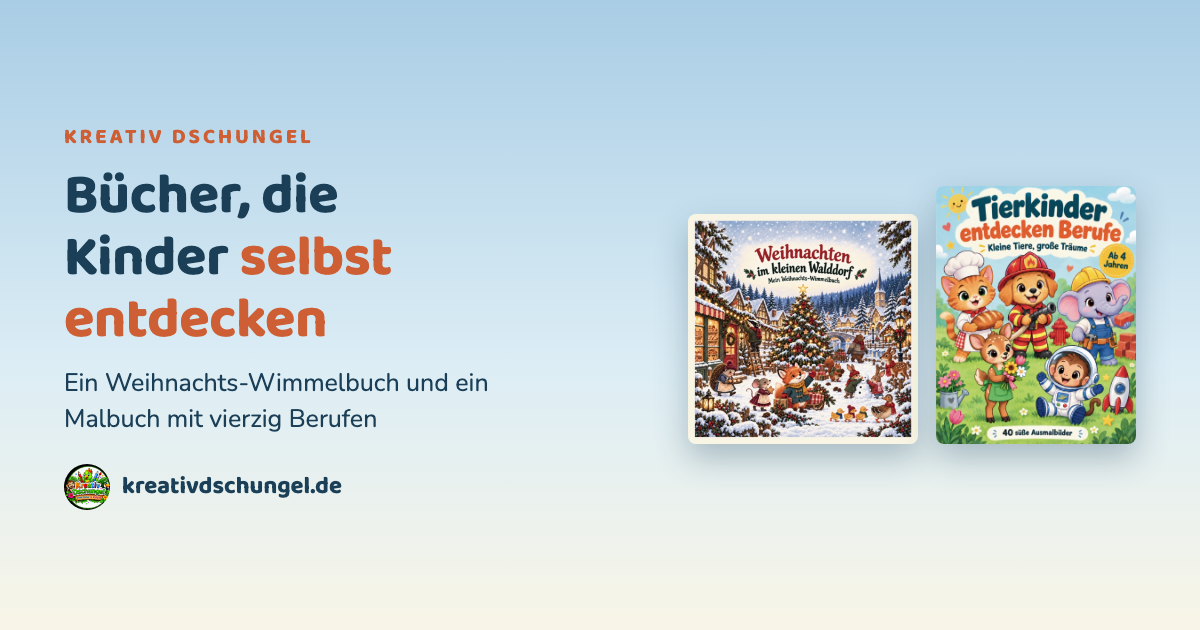
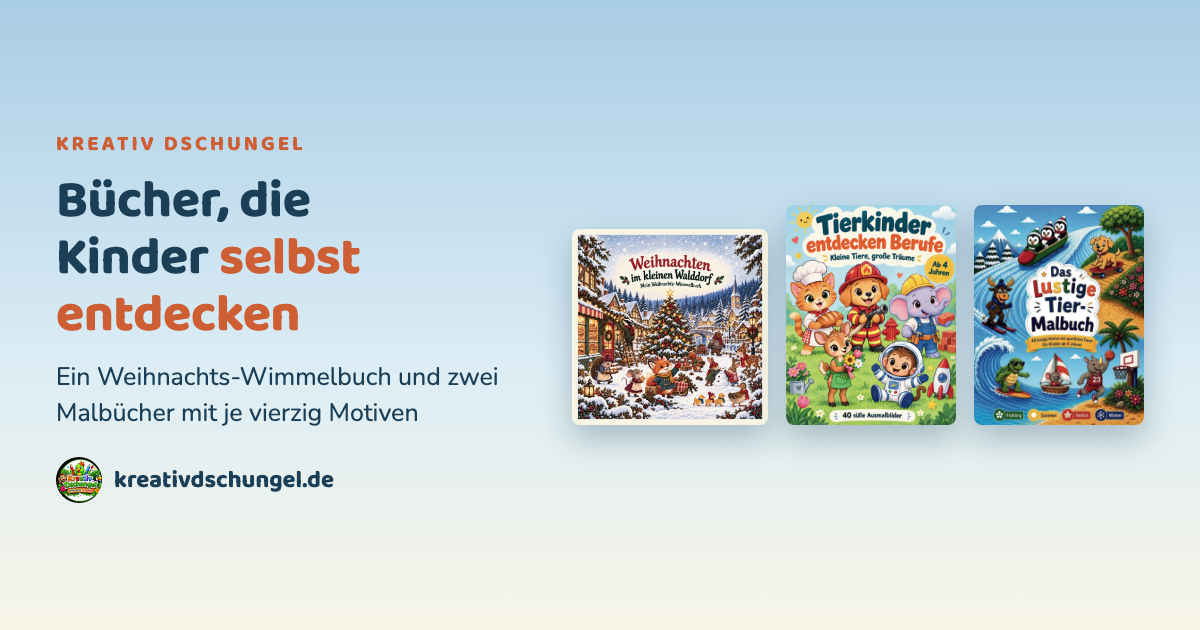
Drittes Buch aufnehmen: Das lustige Tier-Malbuch
"Das lustige Tier-Malbuch" (ASIN B0H2L4VM4R), 40 Motive von sportlichen Tieren
durch die vier Jahreszeiten, ab 4 Jahren. Eigener Abschnitt mit Grasgrün als
Akzent, aus dem Cover abgeleitet.

Angaben stammen von der Rückseite der Coverdatei: vier Jahreszeiten, große
Ausmalflächen, jedes Motiv auf eigenem Blatt mit leerer Rückseite.

Für dieses Buch lag nur das Cover vor, deshalb fehlt der "Blick ins Buch" —
im Quelltext als offener Punkt markiert.

Vorschaubild zeigt jetzt alle drei Cover.

diff --git a/index.html b/index.html
@@ -4,20 +4,20 @@
 <meta charset="utf-8">
 <meta name="viewport" content="width=device-width, initial-scale=1, viewport-fit=cover">
 
-<title>Kreativ Dschungel — Wimmelbuch und Malbuch für Kinder</title>
-<meta name="description" content="Zwei Bücher von Sebastian Mentzel: ein Weihnachts-Wimmelbuch mit acht Suchbildern aus dem kleinen Walddorf und ein Malbuch mit 40 Ausmalbildern zum Thema Berufe. Blick ins Buch online.">
+<title>Kreativ Dschungel — Wimmelbuch und Malbücher für Kinder</title>
+<meta name="description" content="Drei Bücher von Sebastian Mentzel: ein Weihnachts-Wimmelbuch mit acht Suchbildern und zwei Malbücher mit je 40 Motiven — Berufe und sportliche Tiere. Für Kinder ab 4 Jahren.">
 <link rel="canonical" href="https://kreativdschungel.de/">
 
 <meta property="og:type" content="website">
 <meta property="og:locale" content="de_DE">
 <meta property="og:site_name" content="Kreativ Dschungel">
-<meta property="og:title" content="Kreativ Dschungel — Wimmelbuch und Malbuch für Kinder">
-<meta property="og:description" content="Ein Weihnachts-Wimmelbuch aus dem kleinen Walddorf und ein Malbuch mit 40 Berufen. Mit Blick ins Buch.">
+<meta property="og:title" content="Kreativ Dschungel — Wimmelbuch und Malbücher für Kinder">
+<meta property="og:description" content="Ein Weihnachts-Wimmelbuch und zwei Malbücher mit je 40 Motiven. Für Kinder ab 4 Jahren.">
 <meta property="og:url" content="https://kreativdschungel.de/">
 <meta property="og:image" content="https://kreativdschungel.de/vorschaubild.png">
 <meta property="og:image:width" content="1200">
 <meta property="og:image:height" content="630">
-<meta property="og:image:alt" content="Die Cover beider Bücher: Weihnachten im kleinen Walddorf und Tierkinder entdecken Berufe">
+<meta property="og:image:alt" content="Die Cover der drei Bücher: Weihnachten im kleinen Walddorf, Tierkinder entdecken Berufe und Das lustige Tier-Malbuch">
 <meta name="twitter:card" content="summary_large_image">
 
 <!-- Pinterest: Code aus Einstellungen → Beanspruchte Konten → Website beanspruchen -->
@@ -41,6 +41,7 @@
   --orange:#CE5F35; --himmel:#A9CDE5; --himmel-hell:#DCEDF5;
   --wiese:#AEC865; --gelb:#E8C457;
   --tanne:#1E3D28; --tanne-hell:#E3EBE1; --rot:#8C2828; --gold:#C9A227;
+  --sport:#5E8A2E; --sport-hell:#EDF3DF;
   --linie:#E4DECA; --schatten:rgba(26,63,87,.13);
 
   --titel:"Baloo 2","Trebuchet MS",system-ui,sans-serif;
@@ -54,6 +55,7 @@
     --orange:#F08A5D; --himmel:#2C5468; --himmel-hell:#1B3A4B;
     --wiese:#8FB255; --gelb:#F0CF6B;
     --tanne:#8FC3A1; --tanne-hell:#17333A; --rot:#E08A80; --gold:#E3C76B;
+    --sport:#A8C96E; --sport-hell:#16303A;
     --linie:#2C5468; --schatten:rgba(0,0,0,.45);
     color-scheme:dark;
   }
@@ -63,6 +65,7 @@
   --orange:#F08A5D; --himmel:#2C5468; --himmel-hell:#1B3A4B;
   --wiese:#8FB255; --gelb:#F0CF6B;
   --tanne:#8FC3A1; --tanne-hell:#17333A; --rot:#E08A80; --gold:#E3C76B;
+  --sport:#A8C96E; --sport-hell:#16303A;
   --linie:#2C5468; --schatten:rgba(0,0,0,.45);
   color-scheme:dark;
 }
@@ -121,6 +124,9 @@ nav.haupt a:hover,nav.haupt a.aktiv{color:var(--tief); background:var(--himmel-h
 .knopf.gruen{background:var(--rot); box-shadow:0 4px 0 #5E1A1A, 0 8px 18px var(--schatten); color:#fff}
 .knopf.gruen:hover{box-shadow:0 6px 0 #5E1A1A, 0 12px 22px var(--schatten)}
 .knopf.gruen:active{box-shadow:0 2px 0 #5E1A1A}
+.knopf.gras{background:var(--sport); box-shadow:0 4px 0 #3D5C1C, 0 8px 18px var(--schatten); color:#fff}
+.knopf.gras:hover{box-shadow:0 6px 0 #3D5C1C, 0 12px 22px var(--schatten)}
+.knopf.gras:active{box-shadow:0 2px 0 #3D5C1C}
 .knopf.zweit{background:var(--papier); color:var(--tief);
              box-shadow:0 4px 0 var(--linie), 0 8px 18px var(--schatten)}
 .knopf.zweit:hover{box-shadow:0 6px 0 var(--linie), 0 12px 22px var(--schatten)}
@@ -144,18 +150,20 @@ a:focus-visible,button:focus-visible,summary:focus-visible{outline:3px solid var
 .hero h1 .ton{color:var(--orange)}
 .hero p.lead{margin-top:16px; color:var(--tief); opacity:.88}
 .tasten{display:flex; flex-wrap:wrap; gap:12px; margin-top:26px}
-.zweibuch{display:grid; grid-template-columns:1fr 1fr; gap:18px; align-items:end}
+.zweibuch{display:grid; grid-template-columns:repeat(3,1fr); gap:12px; align-items:end}
 .zweibuch a{text-decoration:none; display:block}
 .zweibuch img{border-radius:8px; box-shadow:0 16px 34px rgba(26,63,87,.3); width:100%}
-.zweibuch a:nth-child(1) img{transform:rotate(-2.5deg)}
-.zweibuch a:nth-child(2) img{transform:rotate(2deg)}
-.zweibuch span{display:block; font-family:var(--titel); font-weight:600; font-size:.84rem;
+.zweibuch a:nth-child(1) img{transform:rotate(-3deg)}
+.zweibuch a:nth-child(2) img{transform:translateY(-10px) rotate(1deg)}
+.zweibuch a:nth-child(3) img{transform:rotate(3.5deg)}
+.zweibuch span{display:block; font-family:var(--titel); font-weight:600; font-size:.76rem;
                text-align:center; margin-top:14px; color:var(--tief)}
 @media (max-width:820px){ .hero-raster{grid-template-columns:1fr} }
 
 /* ---------- Buchkapitel ---------- */
 .buch{padding-block:clamp(54px,8vw,92px)}
 .buch.walddorf{background:var(--tanne-hell)}
+.buch.sport{background:var(--sport-hell)}
 .buch-kopf{display:grid; grid-template-columns:.78fr 1.22fr; gap:clamp(26px,4vw,52px); align-items:center}
 .buch-kopf img.cover{border-radius:8px; box-shadow:0 16px 36px rgba(26,63,87,.26)}
 .buch h2{font-size:clamp(1.8rem,4.2vw,2.7rem)}
@@ -243,7 +251,8 @@ footer.site{background:var(--himmel-hell); padding-block:46px 54px;
     </a>
     <nav class="haupt" aria-label="Hauptnavigation">
       <a href="#walddorf">Wimmelbuch</a>
-      <a href="#tierkinder">Malbuch</a>
+      <a href="#tierkinder">Berufe</a>
+      <a href="#tiermalbuch">Sport</a>
       <a href="#anlaesse">Für wen</a>
       <a href="#autor">Über mich</a>
       <a href="#fragen">Fragen</a>
@@ -259,22 +268,26 @@ footer.site{background:var(--himmel-hell); padding-block:46px 54px;
   <span class="wolke w1"></span><span class="wolke w2"></span>
   <div class="wrap hero-raster">
     <div>
-      <p class="kicker">Zwei Bücher für Kinder</p>
+      <p class="kicker">Drei Bücher für Kinder</p>
       <h1>Bücher, die Kinder <span class="ton">selbst entdecken</span></h1>
-      <p class="lead">Ein Weihnachts-Wimmelbuch zum Suchen und Erzählen und ein Malbuch mit vierzig Berufen zum Ausmalen. Beide von Sebastian Mentzel, beide bei Amazon erhältlich — und beide so gemacht, dass Kinder damit allein etwas anfangen können.</p>
+      <p class="lead">Ein Weihnachts-Wimmelbuch zum Suchen und Erzählen und zwei Malbücher mit je vierzig Motiven zum Ausmalen. Alle drei von Sebastian Mentzel, alle drei bei Amazon erhältlich — und alle so gemacht, dass Kinder damit allein etwas anfangen können.</p>
       <div class="tasten">
         <a class="knopf gruen" href="#walddorf">Das Wimmelbuch</a>
-        <a class="knopf" href="#tierkinder">Das Malbuch</a>
+        <a class="knopf" href="#tierkinder">Die Malbücher</a>
       </div>
     </div>
     <div class="zweibuch">
       <a href="#walddorf">
         <img src="bilder/cover-walddorf.jpg" width="760" height="760" alt="Cover: Weihnachten im kleinen Walddorf — verschneites Dorf mit Fuchs, Maus, Igel und geschmücktem Weihnachtsbaum">
-        <span>Wimmelbuch</span>
+        <span>Weihnachten</span>
       </a>
       <a href="#tierkinder">
         <img src="bilder/cover-tierkinder.jpg" width="900" height="1165" alt="Cover: Tierkinder entdecken Berufe — Katze als Bäckerin, Hund als Feuerwehrmann, Elefant als Bauarbeiter">
-        <span>Malbuch</span>
+        <span>Berufe</span>
+      </a>
+      <a href="#tiermalbuch">
+        <img src="bilder/cover-tiermalbuch.jpg" width="760" height="983" alt="Cover: Das lustige Tier-Malbuch — Pinguine im Bob, Elch auf Skiern, Schildkröte auf dem Surfbrett">
+        <span>Sport</span>
       </a>
     </div>
   </div>
@@ -384,11 +397,55 @@ footer.site{background:var(--himmel-hell); padding-block:46px 54px;
   </div>
 </section>
 
+<!-- ======================= SPORT-MALBUCH ======================= -->
+<section class="buch sport" id="tiermalbuch">
+  <div class="wrap">
+    <div class="buch-kopf">
+      <img class="cover" src="bilder/cover-tiermalbuch.jpg" width="760" height="983"
+           alt="Cover: Das lustige Tier-Malbuch, 40 Motive von sportlichen Tieren">
+      <div>
+        <p class="kicker" style="color:var(--sport)">Malbuch ab 4 Jahren</p>
+        <h2>Das lustige Tier-Malbuch</h2>
+        <p class="reihe">Sportlicher Malspaß für das ganze Jahr</p>
+        <p class="lead" style="margin-top:16px">Vierzig Tiere bei ihren verrückten Abenteuern durch Frühling, Sommer, Herbst und Winter. Die Giraffe beim Turmspringen, der Frosch beim Stabhochsprung, der Pinguin beim Bobfahren, die Maus beim Segeln — auf jeder Seite gibt es etwas zum Lachen und zum Ausmalen.</p>
+        <ul class="merkmale">
+          <li>40 Motive</li>
+          <li>Ab 4 Jahren</li>
+          <li>Vier Jahreszeiten</li>
+          <li>Einseitig bedruckt</li>
+        </ul>
+        <div class="tasten">
+          <a class="knopf gras" href="https://www.amazon.de/dp/B0H2L4VM4R" target="_blank" rel="noopener">Bei Amazon ansehen</a>
+        </div>
+      </div>
+    </div>
+
+    <div class="karten">
+      <div class="karte">
+        <h3>Vier Jahreszeiten</h3>
+        <p>Die Motive sind nach Frühling, Sommer, Herbst und Winter geordnet. Nebenbei lernt sich, was im Jahr wann passiert — ohne dass es nach Lernen aussieht.</p>
+      </div>
+      <div class="karte">
+        <h3>Sport als Aufhänger</h3>
+        <p>Jedes Tier macht etwas: Skifahren, Surfen, Basketball, Segeln. Das gibt beim Ausmalen mehr zu bereden als ein Tier, das nur dasteht.</p>
+      </div>
+      <div class="karte">
+        <h3>Kein Durchdrücken</h3>
+        <p>Jedes Motiv liegt auf einem eigenen Blatt mit leerer Rückseite. Große Ausmalflächen, passend für Kinder ab vier.</p>
+      </div>
+    </div>
+
+    <p style="margin-top:28px; font-size:.88rem">
+      <span class="fuell">[Innenseiten nachliefern, dann kommt hier ein „Blick ins Buch“ wie bei den anderen beiden Büchern. Für dieses Buch lag nur die Coverdatei vor.]</span>
+    </p>
+  </div>
+</section>
+
 <section id="anlaesse" style="background:var(--himmel-hell)">
   <div class="wrap">
     <p class="kicker">Für wen</p>
     <h2>Wann die Bücher gerade richtig sind</h2>
-    <p class="lead">Beide beschäftigen Kinder ohne Bildschirm und ohne Anleitung — das Wimmelbuch im Sitzen zu zweit, das Malbuch auch allein.</p>
+    <p class="lead">Alle drei beschäftigen Kinder ohne Bildschirm und ohne Anleitung — das Wimmelbuch im Sitzen zu zweit, die Malbücher auch allein.</p>
     <ul class="anlaesse">
       <li>Adventszeit</li>
       <li>Nikolausstiefel</li>
@@ -400,9 +457,10 @@ footer.site{background:var(--himmel-hell); padding-block:46px 54px;
       <li>Regennachmittag</li>
     </ul>
     <p style="margin-top:26px; max-width:62ch; color:var(--tief-weich)">
-      Beide Bücher bringen Gespräche in Gang. Beim Wimmelbuch über das, was auf den
-      Bildern passiert — beim Malbuch über die Frage, die auf der Rückseite steht:
-      Was möchtest du einmal werden?
+      Alle drei bringen Gespräche in Gang. Beim Wimmelbuch über das, was auf den
+      Bildern passiert, beim Berufe-Malbuch über die Frage von der Rückseite — was
+      möchtest du einmal werden? — und beim Sport-Malbuch darüber, welche Jahreszeit
+      gerade draußen ist.
     </p>
   </div>
 </section>
@@ -438,19 +496,19 @@ footer.site{background:var(--himmel-hell); padding-block:46px 54px;
 
     <details>
       <summary>Ab welchem Alter passen die Bücher?</summary>
-      <div class="antwort">Das Malbuch ab vier Jahren — die Flächen sind groß und die Linien kräftig genug für Kindergartenkinder. Das Wimmelbuch funktioniert schon früher, wenn ein Erwachsener mitschaut und die Suchfragen vorliest. <span class="fuell">[Hier die endgültige Altersangabe des Wimmelbuchs eintragen.]</span></div>
+      <div class="antwort">Beide Malbücher ab vier Jahren — die Flächen sind groß und die Linien kräftig genug für Kindergartenkinder. Das Wimmelbuch funktioniert schon früher, wenn ein Erwachsener mitschaut und die Suchfragen vorliest. <span class="fuell">[Hier die endgültige Altersangabe des Wimmelbuchs eintragen.]</span></div>
     </details>
     <details>
       <summary>Was ist eine Malidee im Wimmelbuch?</summary>
       <div class="antwort">Am Ende des Buches steht eine Anregung zum Selbermalen, die an die Bilder anknüpft — so geht das Entdecken ins eigene Gestalten über, ohne dass ein zweites Buch nötig wäre.</div>
     </details>
     <details>
-      <summary>Drücken Filzstifte im Malbuch durch?</summary>
-      <div class="antwort">Filzstifte drücken auf normalem Papier fast immer durch. Deshalb ist das Malbuch einseitig bedruckt: Die Rückseite jedes Motivs ist leer, ein durchgedrückter Stift ruiniert also kein zweites Bild. Für feine Ergebnisse sind Buntstifte und Wachsmaler trotzdem die bessere Wahl.</div>
+      <summary>Drücken Filzstifte in den Malbüchern durch?</summary>
+      <div class="antwort">Filzstifte drücken auf normalem Papier fast immer durch. Deshalb sind beide Malbücher einseitig bedruckt: Die Rückseite jedes Motivs ist leer, ein durchgedrückter Stift ruiniert also kein zweites Bild. Für feine Ergebnisse sind Buntstifte und Wachsmaler trotzdem die bessere Wahl.</div>
     </details>
     <details>
       <summary>Gehören die Bücher zu einer Reihe?</summary>
-      <div class="antwort">Beide erscheinen unter Kreativ Dschungel, erzählen aber eigene Geschichten und lassen sich unabhängig voneinander lesen. <span class="fuell">[Falls weitere Titel geplant sind, hier nennen.]</span></div>
+      <div class="antwort">Alle drei erscheinen unter Kreativ Dschungel, sind aber in sich abgeschlossen und lassen sich unabhängig voneinander nutzen. <span class="fuell">[Falls weitere Titel geplant sind, hier nennen.]</span></div>
     </details>
     <details>
       <summary>Wo kann ich die Bücher kaufen?</summary>
@@ -504,6 +562,7 @@ footer.site{background:var(--himmel-hell); padding-block:46px 54px;
         <h3>Die Bücher</h3>
         <p>„Weihnachten im kleinen Walddorf — Mein Weihnachts-Wimmelbuch“, acht Wimmelbilder mit Suchfragen.</p>
         <p style="margin-top:6px">„Tierkinder entdecken Berufe — Kleine Tiere, große Träume“, Malbuch mit 40 Ausmalbildern ab 4 Jahren.</p>
+        <p style="margin-top:6px">„Das lustige Tier-Malbuch“, 40 Motive von sportlichen Tieren durch die vier Jahreszeiten, ab 4 Jahren.</p>
         <p style="margin-top:8px">Die Kauf-Links führen zu Amazon.de. Bestellung und Abwicklung erfolgen dort.</p>
         <p style="margin-top:8px"><span class="fuell">[Nur bei Partnerlinks, sonst löschen:]</span> Als Amazon-Partner verdiene ich an qualifizierten Verkäufen.</p>
         <p style="margin-top:8px">Cover und Illustrationen sind urheberrechtlich geschützt.</p>
@@ -545,6 +604,19 @@ footer.site{background:var(--himmel-hell); padding-block:46px 54px;
       "genre": "Malbuch",
       "image": "https://kreativdschungel.de/bilder/cover-tierkinder.jpg",
       "sameAs": "https://www.amazon.de/dp/B0HKYQXX5G",
+      "publisher": { "@type": "Organization", "name": "Kreativ Dschungel" }
+    },
+    {
+      "@type": "Book",
+      "position": 3,
+      "name": "Das lustige Tier-Malbuch: 40 lustige Motive von sportlichen Tieren für Kinder ab 4 Jahren",
+      "author": { "@type": "Person", "name": "Sebastian Mentzel" },
+      "inLanguage": "de",
+      "bookFormat": "https://schema.org/Paperback",
+      "typicalAgeRange": "4-8",
+      "genre": "Malbuch",
+      "image": "https://kreativdschungel.de/bilder/cover-tiermalbuch.jpg",
+      "sameAs": "https://www.amazon.de/dp/B0H2L4VM4R",
       "publisher": { "@type": "Organization", "name": "Kreativ Dschungel" }
     }
   ]

diff --git a/README.md b/README.md
@@ -7,12 +7,13 @@ kein Framework — die Dateien gehen so wie sie sind auf jeden Hoster.
 |---|---|
 | Weihnachten im kleinen Walddorf — Mein Weihnachts-Wimmelbuch | `B0HL3NRJ7P` |
 | Tierkinder entdecken Berufe — Kleine Tiere, große Träume | `B0HKYQXX5G` |
+| Das lustige Tier-Malbuch — 40 Motive von sportlichen Tieren | `B0H2L4VM4R` |
 
 ```
 index.html       die komplette Seite (Struktur, CSS, JavaScript)
 schriften.css    @font-face-Regeln für die lokalen Schriften
 fonts/           Baloo 2 + Nunito als woff2, 132 KB
-bilder/          zwei Cover, Logo, sechs Wimmelbilder, sechs Ausmalbilder
+bilder/          drei Cover, Logo, sechs Wimmelbilder, sechs Ausmalbilder
 vorschaubild.png 1200x630, erscheint beim Teilen in WhatsApp und Pinterest
 favicon.svg, robots.txt, sitemap.xml, vercel.json
 ```
@@ -26,17 +27,21 @@ Wimmelbuch. Jedes Buchkapitel trägt die Farben seines Covers.
 
 Titel, ASINs, Buchdaten und Autorenname stehen richtig drin. Offen ist:
 
-1. **Altersangabe des Wimmelbuchs klären.** Die Rückseite nennt „ab 2 Jahren“,
+1. **Innenseiten des Tier-Malbuchs nachliefern.** Für dieses Buch lag nur die
+   Coverdatei vor, deshalb fehlt dort der „Blick ins Buch“. Sobald die
+   Innenseiten-PDF da ist, lassen sich wie bei den anderen Büchern Motive
+   herausziehen.
+2. **Altersangabe des Wimmelbuchs klären.** Die Rückseite nennt „ab 2 Jahren“,
    die Titelseite im Buch „ab 4 Jahren“. Das widerspricht sich und steht auch
    bei Amazon. Entscheiden, dann an allen drei Stellen vereinheitlichen.
-2. **Den dunklen Streifen oben in `index.html` löschen** (`<div class="hinweis">`).
-3. **E-Mail-Adresse** — an zwei Stellen: Abschnitt Kontakt und Impressum.
-4. **Impressum**: Straße, PLZ, Ort und die Zeile zur Umsatzsteuer. Pflicht nach
+3. **Den dunklen Streifen oben in `index.html` löschen** (`<div class="hinweis">`).
+4. **E-Mail-Adresse** — an zwei Stellen: Abschnitt Kontakt und Impressum.
+5. **Impressum**: Straße, PLZ, Ort und die Zeile zur Umsatzsteuer. Pflicht nach
    § 5 DDG, sobald die Seite geschäftsmäßig ist.
-5. **Text über dich** im Abschnitt „Über mich“ — zwei kurze Absätze.
-6. **Zwei offene Antworten** im Frageteil: weitere Titel und Kita-Mengen.
-7. **Hoster im Datenschutz**, sobald entschieden ist, wo die Seite liegt.
-8. **Pinterest-Code** in `<meta name="p:domain_verify">`, sobald die Seite live ist.
+6. **Text über dich** im Abschnitt „Über mich“ — zwei kurze Absätze.
+7. **Zwei offene Antworten** im Frageteil: weitere Titel und Kita-Mengen.
+8. **Hoster im Datenschutz**, sobald entschieden ist, wo die Seite liegt.
+9. **Pinterest-Code** in `<meta name="p:domain_verify">`, sobald die Seite live ist.
 
 Alle offenen Stellen sind mit `class="fuell"` ausgezeichnet und erscheinen auf
 der Seite orange.
